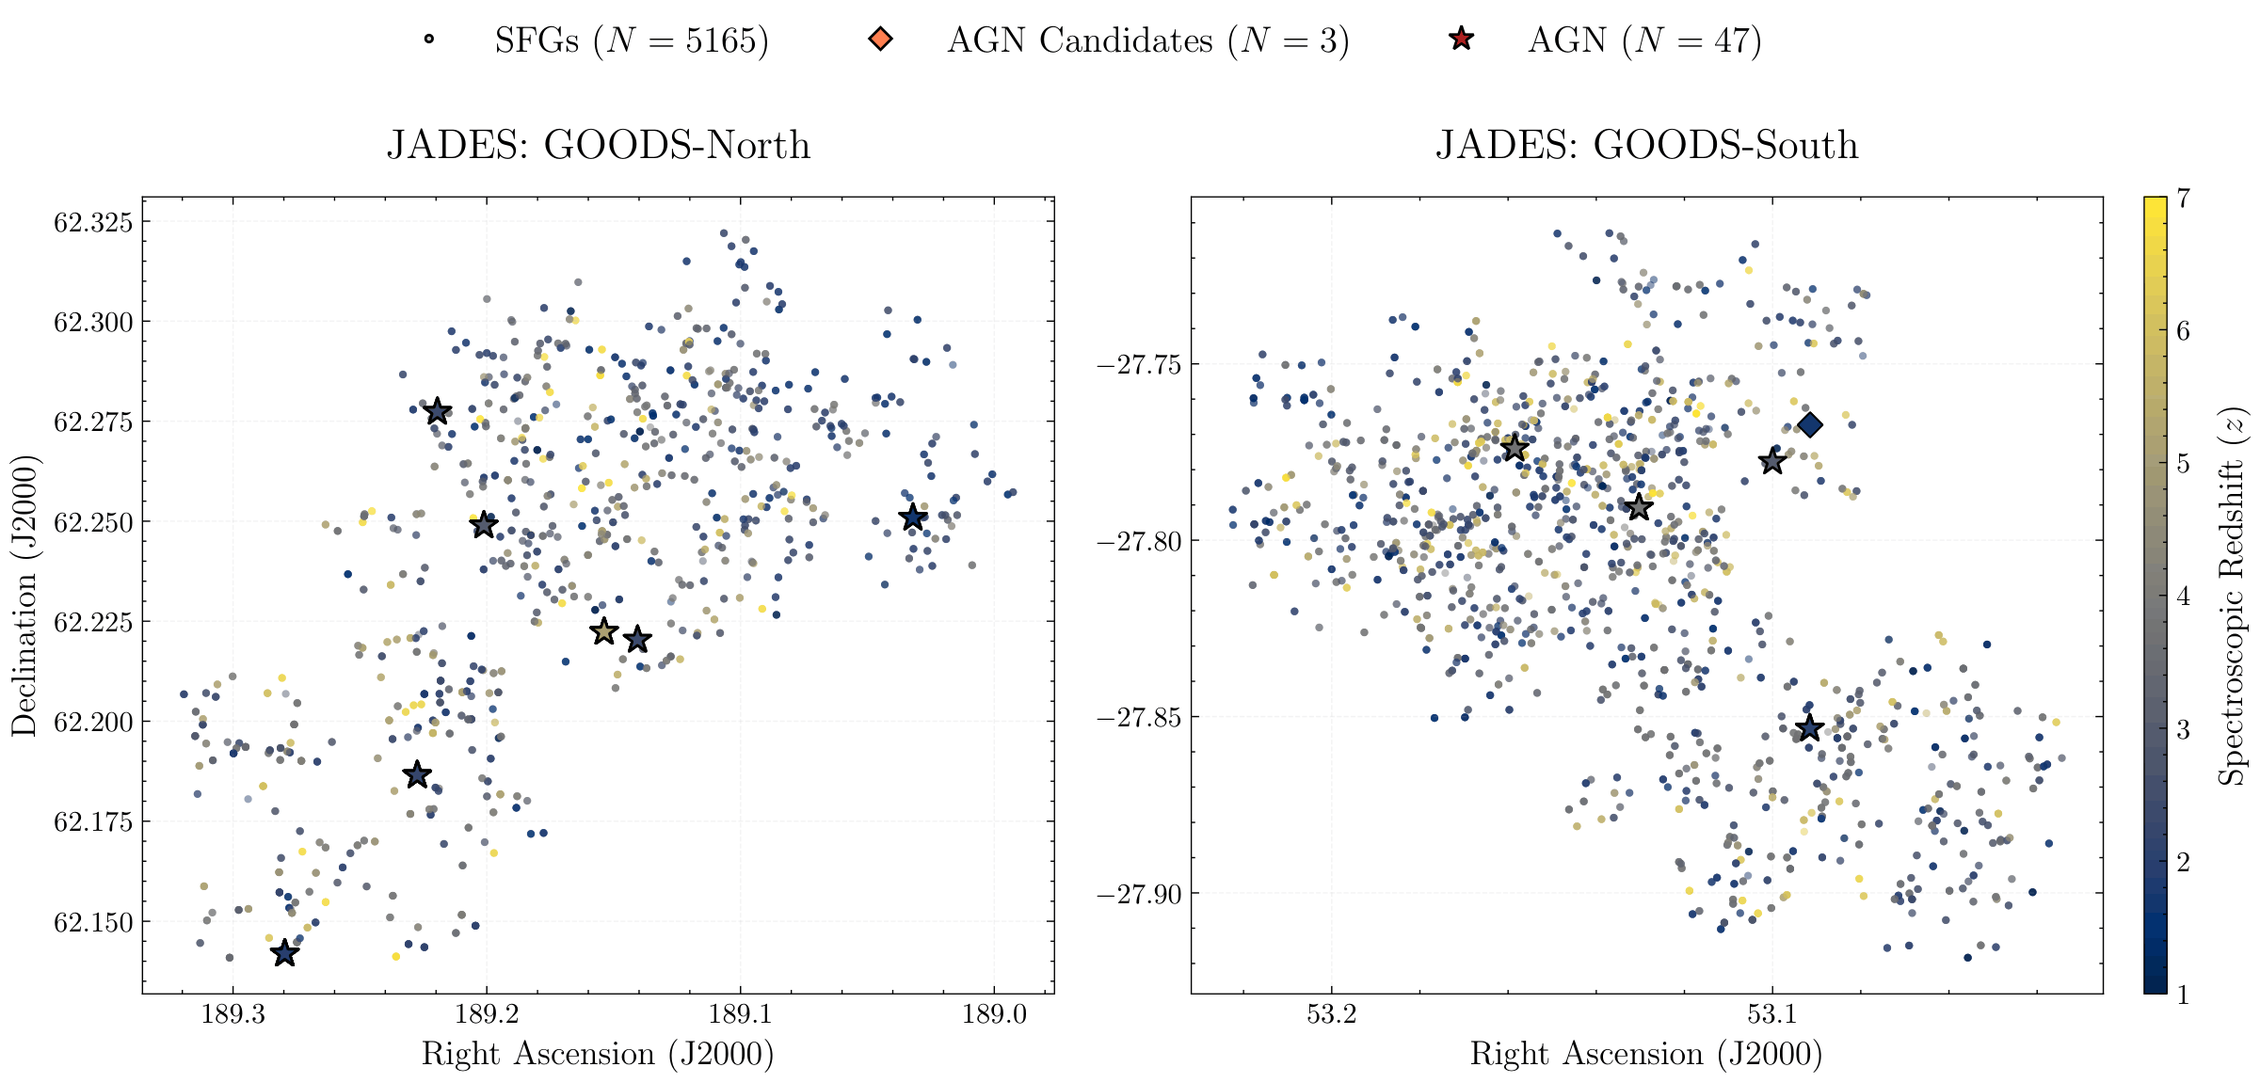
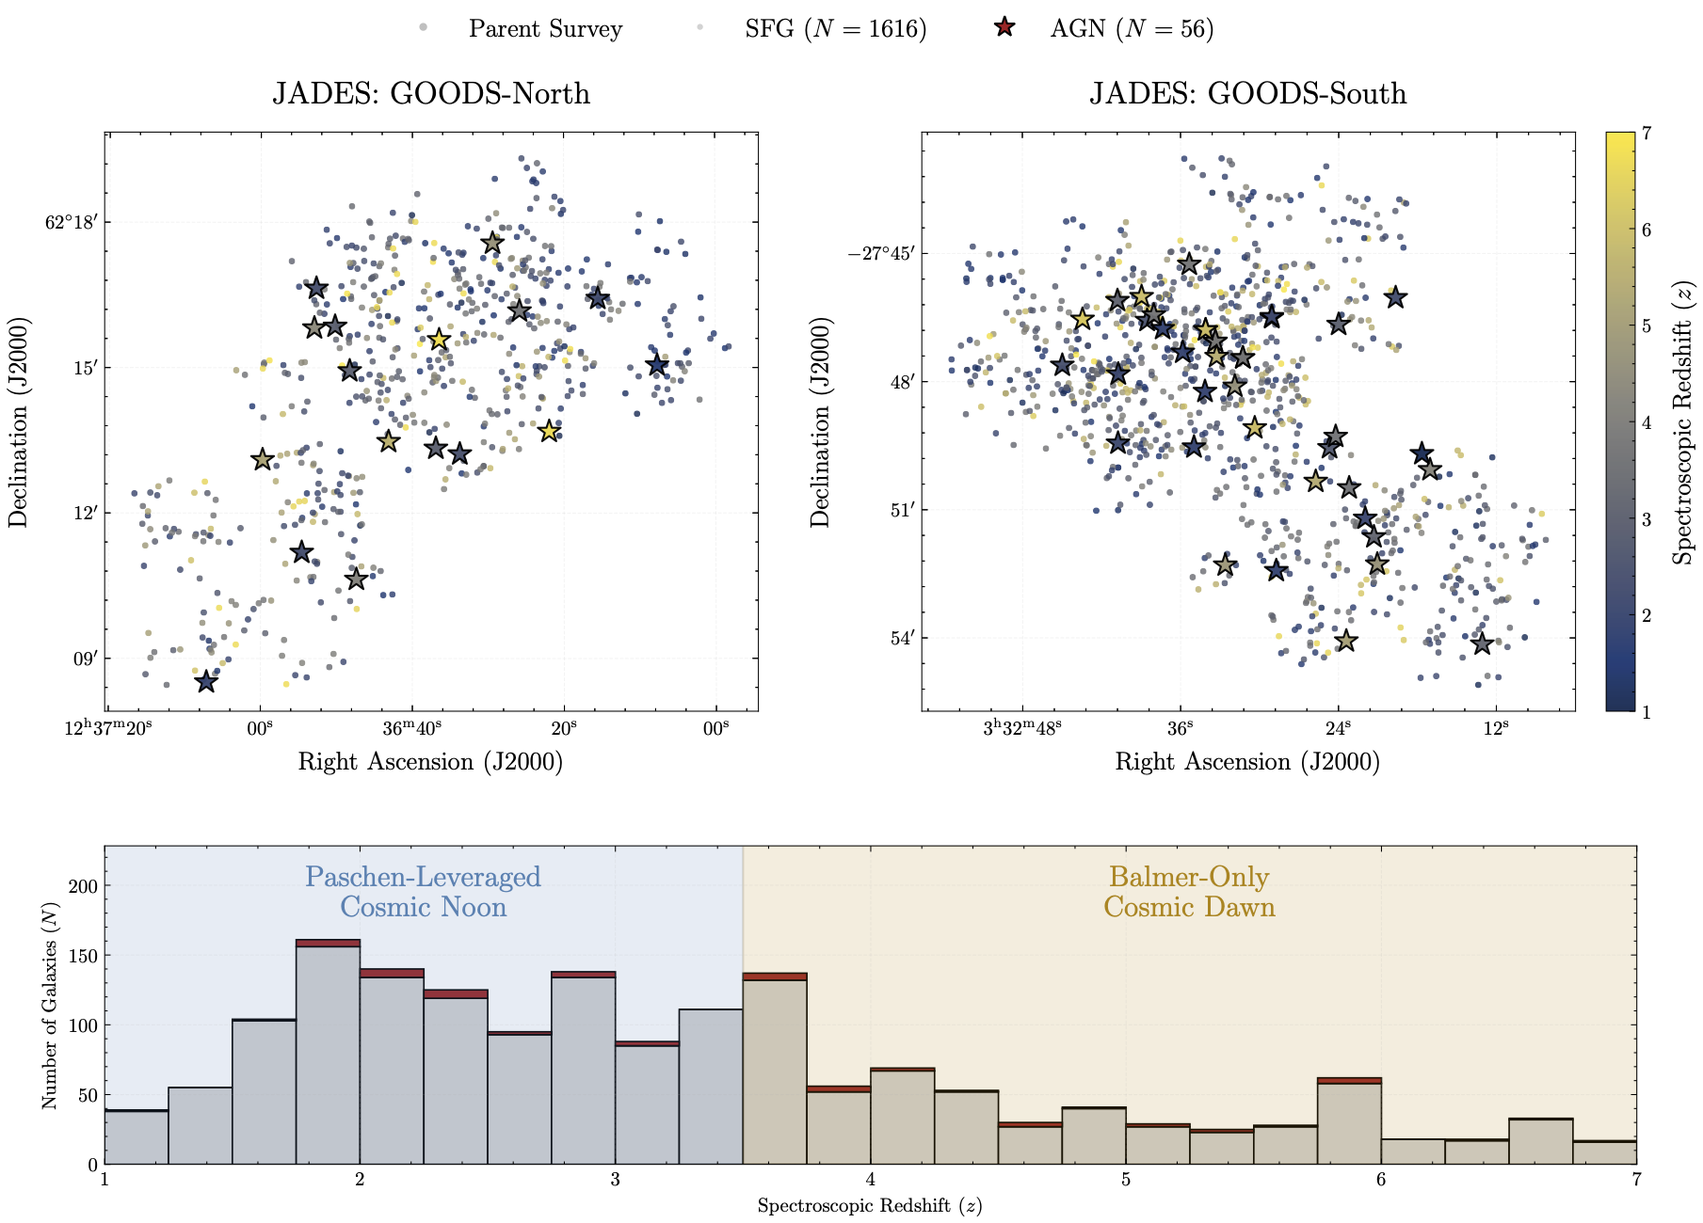
icarus commit

diff --git a/icarus.html b/icarus.html
@@ -17,7 +17,7 @@
     <link rel="stylesheet" href="https://stackpath.bootstrapcdn.com/bootstrap/4.4.1/css/bootstrap.min.css">
     <link rel="stylesheet" href="https://cdnjs.cloudflare.com/ajax/libs/font-awesome/6.5.2/css/all.min.css">
     <link href="https://fonts.googleapis.com/css2?family=Abel&family=Dosis:wght@400;600&family=Roboto+Mono&display=swap" rel="stylesheet">
-    <title>Software: ICARUS Pipeline | Joseph Havens</title>
+    <title>Software: ICARUS v3.4 Pipeline | Joseph Havens</title>
 
     <style>
         /* View Transition API Animations */
@@ -33,12 +33,27 @@
             font-size: 0.85rem;
             color: #A8B2D1;
             overflow-x: auto;
+            white-space: pre;
         }
         .concept-card {
             border: 1px solid rgba(255,255,255,0.1);
             background: rgba(255,255,255,0.02);
             padding: 20px;
             height: 100%;
+        }
+        .stat-card {
+            border: 1px solid rgba(255,255,255,0.12);
+            background: rgba(255,255,255,0.03);
+            padding: 18px 14px;
+            height: 100%;
+            text-align: center;
+        }
+        .stat-value {
+            font-family: 'Dosis', sans-serif;
+            font-size: 1.9rem;
+            font-weight: 600;
+            color: var(--accent-glow);
+            line-height: 1.1;
         }
     </style>
 </head>
@@ -52,44 +67,57 @@
         <div class="row mb-5 reveal" style="view-transition-name: icarus-card;">
             <div class="col-lg-8">
                 <div class="d-flex align-items-center mb-2">
-                    <span class="badge badge-success text-dark mr-2">VERSION 3.2.0</span>
+                    <span class="badge badge-success text-dark mr-2">VERSION 3.4.0</span>
                     <small class="text-white-50 font-weight-bold" style="letter-spacing: 1px;">CORE SOFTWARE ARCHITECTURE</small>
                 </div>
                 <h1 class="page-title mb-3">The ICARUS Pipeline</h1>
-                <p class="page-subtitle">Integrated Cosmic Analysis Research Utility for Spectroscopy. A comprehensive numerical orchestration engine designed for automated kinematic selection and high-fidelity emission line fitting.</p>
+                <p class="page-subtitle">An automated, multi-core spectroscopic decomposition and virial black hole mass estimation engine built for high-redshift JWST AGN surveys.</p>
+                <div class="mt-3">
+                    <a href="https://github.com/JHavens2187/Icarus" target="_blank" rel="noopener noreferrer" class="btn btn-sm btn-outline-light rounded-pill px-3 py-1">
+                        <i class="fab fa-github mr-2"></i> JHavens2187/Icarus
+                    </a>
+                </div>
             </div>
-            <div class="col-lg-4 text-right">
+            <div class="col-lg-4 text-right mt-4 mt-lg-0">
                 <div class="content-glass p-3 text-left">
                     <h6 class="text-white border-bottom pb-2 mb-3" style="border-color: rgba(255,255,255,0.1)!important;">TECHNICAL STACK</h6>
-                    <div class="d-flex flex-wrap gap-2">
-                        <span class="badge badge-dark border border-secondary p-2 m-1">Python</span>
+                    <div class="d-flex flex-wrap">
+                        <span class="badge badge-dark border border-secondary p-2 m-1">Python 3.12</span>
                         <span class="badge badge-dark border border-secondary p-2 m-1">LMFIT</span>
                         <span class="badge badge-dark border border-secondary p-2 m-1">Astropy</span>
-                        <span class="badge badge-dark border border-secondary p-2 m-1">Concurrent.Futures</span>
+                        <span class="badge badge-dark border border-secondary p-2 m-1">SciPy / Numba</span>
+                        <span class="badge badge-dark border border-secondary p-2 m-1">ProcessPoolExecutor</span>
                         <span class="badge badge-dark border border-secondary p-2 m-1">Pydantic</span>
+                        <span class="badge badge-dark border border-secondary p-2 m-1">SLURM HPC</span>
                     </div>
                 </div>
             </div>
         </div>
 
-        <!-- Section 1: Ingestion & Numerics -->
+        <!-- Section 1: Ingestion & Global Continuum Cascade -->
         <div class="row reveal delay-100 mt-5">
             <div class="col-12 mb-4">
                 <div class="content-text">
-                    <h3><i class="fa-solid fa-server text-info"></i> Ingestion & Dynamic Scaling</h3>
-                    <p>ICARUS standardizes chaotic input data through an immutable `Spectrum1D` container. To protect the optimization algorithms from the inherent limitations of floating-point precision, the ingestion engine dynamically normalizes spectral arrays.</p>
+                    <h3><i class="fa-solid fa-server text-info"></i> Ingestion & Two-Pass Global Continuum Cascade</h3>
+                    <p>ICARUS standardizes heterogeneous survey spectra through an immutable <code>Spectrum1D</code> container and built-in instrument presets (e.g., <code>jwst_nirspec_medium</code>). Before fitting emission lines across 22 rest-frame UV/optical/NIR windows, Stage 1 isolates the underlying AGN and host-galaxy continua.</p>
                 </div>
             </div>
-            <div class="col-lg-6 mb-4">
+            <div class="col-lg-4 mb-4">
                 <div class="concept-card">
-                    <h5 class="text-white mb-3">Array Normalization</h5>
-                    <p class="text-white-50 small">The pipeline computes a dynamic scale factor for each unique spectrum, standardizing flux values to $O(1)$ space using $10^{\lfloor\log_{10}(\text{median flux})\rfloor}$. This explicitly prevents optimizer crashes when processing faint high-redshift targets with raw fluxes on the order of $10^{-19}$ erg s$^{-1}$ cm$^{-2}$ $\text{\AA}^{-1}$. The true physical units are mathematically restored during the final astrophysical yield compilation.</p>
+                    <h5 class="text-white mb-3">Dynamic $O(1)$ Normalization</h5>
+                    <p class="text-white-50 small">Computes a dynamic scale factor per spectrum, standardizing flux arrays to $O(1)$ space via $10^{\lfloor\log_{10}(\text{median flux})\rfloor}$. This prevents optimizer underflow on faint high-$z$ targets ($\sim 10^{-20}\ \text{erg s}^{-1}\ \text{cm}^{-2}\ \text{\AA}^{-1}$) before restoring true physical units.</p>
                 </div>
             </div>
-            <div class="col-lg-6 mb-4">
+            <div class="col-lg-4 mb-4">
+                <div class="concept-card">
+                    <h5 class="text-white mb-3">2-Pass Continuum & Fe II</h5>
+                    <p class="text-white-50 small">Pass 1 fits the global AGN broken power-law and Balmer recombination continuum ($3646\ \text{\AA}$ edge). Pass 2 models broadened UV and optical $\text{Fe\,\textsc{ii}}$ pseudo-continua, anchored locally by outer-25% window medians.</p>
+                </div>
+            </div>
+            <div class="col-lg-4 mb-4">
                 <div class="concept-card">
                     <h5 class="text-white mb-3">Cosmological Projection</h5>
-                    <p class="text-white-50 small">Relying on an underlying `FlatLambdaCDM` cosmology model, raw observational vectors are cleanly projected and de-redshifted into strict rest-frame coordinates.</p>
+                    <p class="text-white-50 small">Relying on an underlying <code>Planck18</code> / <code>FlatLambdaCDM</code> cosmology, raw observational vectors are cleanly projected into rest-frame coordinates and deconvolved against wavelength-dependent instrumental LSF curves.</p>
                 </div>
             </div>
         </div>
@@ -99,58 +127,88 @@
             <div class="col-lg-7 mb-4">
                 <div class="content-text pr-lg-4">
                     <h3><i class="fa-solid fa-gauge-high text-warning"></i> The Kinematic Decision Engine</h3>
-                    <p>The core logic of ICARUS evaluates complex, multi-component line structures to identify energetic outflows and Active Galactic Nuclei (AGN). The pipeline dynamically tests standard narrow-line emission against multi-component broad-line models.</p>
+                    <p>Stage 2 evaluates blended multi-component emission complexes to decouple Broad-Line Regions (BLR), biconical $[\text{O\,\textsc{iii}}]$ outflows, and gravitational narrow cores without manual intervention.</p>
                     <ul class="text-white-50 mt-3 pl-3" style="line-height: 1.8;">
-                        <li><i class="fa-solid fa-scale-balanced text-success mr-2"></i> <strong>Statistical Auditing:</strong> The addition of a broad-line component must survive a strict Bayesian Information Criterion ( $\Delta\text{BIC}$ ) test, ensuring kinematic complexity is statistically significant rather than mere over-fitting.</li>
-                        <li><i class="fa-solid fa-lock text-success mr-2"></i> <strong>Quantum Doublet Tying:</strong> Algebraic constraints physically lock emission doublets. The [O III] $\lambda5007/\lambda4959$ complex is rigidly tied to a 1:2.98 amplitude ratio, while the [N II] $\lambda6583/\lambda6548$ complex is locked to 1:2.95.</li>
-                        <li><i class="fa-solid fa-link text-success mr-2"></i> <strong>Kinematic Outflow Shifts:</strong> In composite systems, the kinematic velocity shifts of broad secondary lines are mathematically forced to match their primary pair, drastically reducing the optimizer's parameter space.</li>
+                        <li><i class="fa-solid fa-scale-balanced text-success mr-2"></i> <strong>$\Delta\text{BIC} \leq -10$ Arbitration:</strong> Nested models (Narrow-Only vs. $[\text{O\,\textsc{iii}}]$ Outflow vs. Broad BLR) must survive a strict Bayesian Information Criterion threshold and physical peak/width vetoes to eliminate false positives.</li>
+                        <li><i class="fa-solid fa-lock text-success mr-2"></i> <strong>Quantum Doublet Tying:</strong> Algebraic constraints lock $[\text{O\,\textsc{iii}}]\ \lambda5007/\lambda4959$ to $2.98:1$ and $[\text{N\,\textsc{ii}}]\ \lambda6583/\lambda6548$ to $2.95:1$, paired with coupled systemic narrow-line velocity offsets ($\Delta v_{\text{narrow}}$).</li>
+                        <li><i class="fa-solid fa-bolt text-success mr-2"></i> <strong>$2\sigma$ Speed Gatekeeper:</strong> Pre-screens weak or absent spectral windows before launching multi-component Levenberg-Marquardt optimization, cutting redundant evaluations while preserving $3\sigma$ upper limits.</li>
                     </ul>
                 </div>
             </div>
             <div class="col-lg-5 mb-4 d-flex align-items-center">
-                <div class="code-block w-100">
-# The [O III] Doublet Lock
-params["O_III_4959_broad_amplitude"].set(
-    expr="O_III_5007_broad_amplitude / 2.98"
-)
+                <div class="code-block w-100"># 4-Line Interactive Python API (v3.4)
+from icarus_pkg.api import AGNFitter
+from icarus_pkg.core.containers import Spectrum1D
 
-# Mathematically forcing the outflow velocity
-shift_expr = (
-    "4958.9 + (O_III_5007_broad_center - 5006.8) "
-    "* (4958.9 / 5006.8)"
+spec = Spectrum1D.read(
+    "target.spec.fits", redshift=2.58,
+    preset="jwst_nirspec_medium"
 )
-params["O_III_4959_broad_center"].set(expr=shift_expr)
-                </div>
+result = AGNFitter(spec, preset="jwst_nirspec_medium").fit()
+result.plot("demo_summary.pdf")</div>
             </div>
         </div>
 
-        <!-- Section 3: Visual Output & Astrophysics -->
+        <!-- Section 3: Visual Output, Data Products & Astrophysics -->
         <div class="row reveal delay-300 mt-5 pt-4 border-top reversed" style="border-color: rgba(255,255,255,0.1)!important;">
             <div class="col-lg-5 mb-4 d-flex align-items-center">
-                <div class="code-block w-100">
-ax.step(
-    x[~mask], y[~mask],
-    where="mid",
-    color="#2B2D42", alpha=0.35, zorder=1
-)
-
-ax.plot(
-    x, fit_result.best_fit, 
-    color="#E63946", lw=2.5, zorder=5
-)
-                </div>
+                <div class="code-block w-100"># Standardized Survey Outputs
+├── icarus_fit_&lt;TARGET_ID&gt;.fits  # 3-HDU MEF
+│   ├── HDU 0: Primary Header (Virial Telemetry)
+│   ├── HDU 1: Decomposed 1D Model Spectra
+│   └── HDU 2: Per-Line Kinematic Table
+├── master_survey_catalog.ecsv   # Aggregated QTable
+└── demo_summary_&lt;TARGET_ID&gt;.pdf # 5-Panel Diagnostic</div>
             </div>
             <div class="col-lg-7 mb-4 pl-lg-5">
                 <div class="content-text">
-                    <h3><i class="fa-solid fa-chart-area" style="color: var(--accent-glow);"></i> Hierarchical Plotting & Analysis</h3>
-                    <p>ICARUS enforces a strict visual geometry standard. It suppresses raw spectral arrays and background integration windows to muted, semi-transparent base layers (e.g., slate gray), deliberately elevating the analytical curves and dynamic multi-component fits with high-contrast, high-zorder properties.</p>
-                    <p class="mt-3"><strong>Calculated Astrophysics:</strong></p>
-                    <p class="text-white-50 small">Upon successful convergence, the engine calculates key physical parameters including Virial Black Hole Mass ($\log_{10}(M_{BH}/M_\odot)$), Uncorrected Star Formation Rates (using equivalent base traces like H$\alpha$ or Pa$\beta$), and local RMS boxcar measurements to derive 3-$\sigma$ upper limits for non-detections (denoted visually by $\downarrow$).</p>
+                    <h3><i class="fa-solid fa-chart-area" style="color: var(--accent-glow);"></i> Publication Diagnostics & Virial Waterfall</h3>
+                    <p>ICARUS generates a 5-panel diagnostic summary per target: full-range log-wavelength SED decomposition, zoomed $[\text{O\,\textsc{iii}}]+\text{H}\beta$ and $\text{H}\alpha+[\text{N\,\textsc{ii}}]$ velocity panels with $\pm 3\sigma$ pull strips, a BPT nebular excitation diagram, and an Executive Telemetry Card.</p>
+                    <p class="mt-3"><strong>Automated Astrophysical Yields:</strong></p>
+                    <p class="text-white-50 small">Upon convergence, an automated Virial Waterfall deconvolves instrumental broadening to derive single-epoch Black Hole Masses ($\log_{10}(M_{\text{BH}}/M_\odot)$ via $\text{H}\beta$, $\text{H}\alpha$, $\text{Mg\,\textsc{ii}}$, or $\text{Pa}\beta$), Bolometric Luminosities ($\log L_{\text{bol}}$), Eddington Ratios ($\lambda_{\text{Edd}}$), narrow-line Star Formation Rates, and local RMS $3\sigma$ upper limits.</p>
                 </div>
             </div>
         </div>
 
-        <!-- Section 4: The Dev Engine -->
+        <!-- Section 4: Blind Validation & HPC Scaling -->
+        <div class="row reveal delay-400 mt-5 pt-4 border-top" style="border-color: rgba(255,255,255,0.1)!important;">
+            <div class="col-12 mb-4">
+                <div class="content-text">
+                    <h3><i class="fa-solid fa-microchip text-success"></i> Blind Radiative-Transfer Validation & KU HPC Scaling</h3>
+                    <p>To prevent circular ($A=A$) testing, ICARUS v3.4 was validated against an independent <strong>Cloudy C23</strong> synthetic suite featuring broken accretion disks, host $\text{D}_n4000$ breaks with stellar Balmer absorption, and non-Gaussian <strong>Voigt BLR profiles</strong> on KU High-Performance Computing (HPC) SLURM nodes.</p>
+                </div>
+            </div>
+            <div class="col-md-3 col-6 mb-3">
+                <div class="stat-card">
+                    <div class="stat-value">100%</div>
+                    <div class="text-white small font-weight-bold mt-1">BLAGN & Outflow Recall</div>
+                    <div class="text-white-50" style="font-size: 0.75rem;">0% False Positives (T2 / SF)</div>
+                </div>
+            </div>
+            <div class="col-md-3 col-6 mb-3">
+                <div class="stat-card">
+                    <div class="stat-value">0.06 dex</div>
+                    <div class="text-white small font-weight-bold mt-1">Virial $M_{\text{BH}}$ Scatter</div>
+                    <div class="text-white-50" style="font-size: 0.75rem;">$\sigma_{\text{MAD}}$, Spearman $r_s = 0.98$</div>
+                </div>
+            </div>
+            <div class="col-md-3 col-6 mb-3">
+                <div class="stat-card">
+                    <div class="stat-value">27.3&times;</div>
+                    <div class="text-white small font-weight-bold mt-1">40-Core HPC Speedup</div>
+                    <div class="text-white-50" style="font-size: 0.75rem;">Amdahl $f_s = 1.2\%$ ($&gt;4.5\ \text{spec/s}$)</div>
+                </div>
+            </div>
+            <div class="col-md-3 col-6 mb-3">
+                <div class="stat-card">
+                    <div class="stat-value">4.5 km/s</div>
+                    <div class="text-white small font-weight-bold mt-1">Core $\sigma_v$ RMSE</div>
+                    <div class="text-white-50" style="font-size: 0.75rem;">Deconvolved $[\text{O\,\textsc{iii}}]$ Narrow Core</div>
+                </div>
+            </div>
+        </div>
+
+        <!-- Section 5: The Dev Engine -->
         <div class="row reveal delay-400 mt-5 pt-4 border-top" style="border-color: rgba(255,255,255,0.1)!important;">
             <div class="col-12 text-center mb-4">
                 <h3><i class="fa-solid fa-terminal text-danger"></i> The Middleware Debugging Engine</h3>
@@ -158,12 +216,15 @@ ax.plot(
             </div>
         </div>
 
-        <!-- Section 5: Assets & Presentations -->
+        <!-- Section 6: Assets & Presentations -->
         <div class="text-center py-5 mt-5 reveal delay-500 border-top" style="border-color: rgba(255,255,255,0.1)!important;">
             <h4 class="text-white mb-3">Project Assets</h4>
-            <div class="d-flex justify-content-center gap-3 mt-4">
-                <a href="assets/pdf/ICARUS.pdf" target="_blank" class="btn btn-outline-success rounded-pill px-4 py-2 font-weight-bold" style="border-width: 2px;">
-                    <i class="fas fa-person-chalkboard mr-2"></i> View ICARUS Presentation
+            <div class="d-flex flex-wrap justify-content-center mt-4">
+                <a href="https://github.com/JHavens2187/Icarus" target="_blank" rel="noopener noreferrer" class="btn btn-outline-light rounded-pill px-4 py-2 font-weight-bold mx-2 my-2" style="border-width: 2px;">
+                    <i class="fab fa-github mr-2"></i> View Source on GitHub
+                </a>
+                <a href="assets/pdf/ICARUS.pdf" target="_blank" class="btn btn-outline-success rounded-pill px-4 py-2 font-weight-bold mx-2 my-2" style="border-width: 2px;">
+                    <i class="fas fa-person-chalkboard mr-2"></i> View ICARUS v3.4 Presentation
                 </a>
             </div>
         </div>

diff --git a/dust.html b/dust.html
@@ -74,7 +74,7 @@
             </div>
             <div class="col-lg-10 offset-lg-1 mb-4">
                 <ul class="text-white-50 pl-3" style="line-height: 1.8;">
-                    <li class="mb-2"><i class="fa-solid fa-ban text-danger mr-2"></i> <strong>Hard Indicators (AGN):</strong> Galaxies are completely excluded if cross-matched with Chandra Source Catalog 2.1 data showing an X-ray luminosity of $L_X > 10^{42}$ erg s$^{-1}$.</li>
+                    <li class="mb-2"><i class="fa-solid fa-ban text-danger mr-2"></i> <strong>Hard Indicators (AGN):</strong> Galaxies are completely excluded if cross-matched with Chandra Source Catalog 2.1 data showing an X-ray luminosity of $L_X > 10^{42}$ erg s$^{-1}$ or if previously identified as AGNs in literature.</li>
                     <li class="mb-2"><i class="fa-solid fa-triangle-exclamation text-warning mr-2"></i> <strong>Soft Indicators (AGN Candidates):</strong> Sources are flagged and excluded if they simultaneously trigger broad-line kinematics (FWHM > 1000 km s$^{-1}$) and highly ionized optical line ratios on the OHNO diagnostic diagram.</li>
                     <li><i class="fa-solid fa-check text-success mr-2"></i> <strong>Final Sample:</strong> Filtering leaves a pure, high-fidelity star-forming baseline of 5,165 galaxies.</li>
                 </ul>
